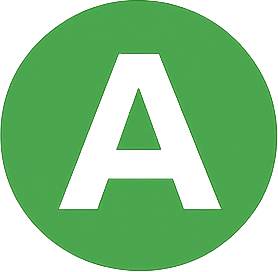
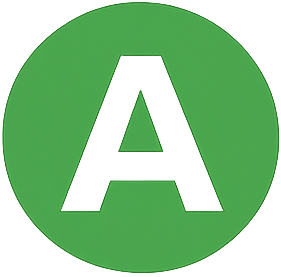
Bump version; use SoundPlayer; publish settings
Bump app version to 1.2.7.0 and add global publish settings (single-file, self-contained, win-x64, etc.). Replace WPF MediaPlayer usage with System.Media.SoundPlayer for embedded activate/deactivate WAV resources (remove temporary file extraction and MediaPlayer.Position usage). Hide virtual keyboard when switching back to controller mode. Update A/B/X/Y button asset images.

diff --git a/MainForm.cs b/MainForm.cs
@@ -3,6 +3,7 @@ using System.Windows.Forms;
 using System.Runtime.InteropServices;
 using System.Drawing;
 using System.Windows.Media;
+using System.Media;
 using DrawingColor = System.Drawing.Color;
 
 namespace HaloShift
@@ -14,8 +15,8 @@ namespace HaloShift
         private Timer _updateTimer;
         private NotifyIcon _notifyIcon;
         private ControlsWindow _controlsWindow;
-        private MediaPlayer _activateSound;
-        private MediaPlayer _deactivateSound;
+        private SoundPlayer _activateSound;
+        private SoundPlayer _deactivateSound;
         private SensitivityOverlay _sensitivityOverlay;
         private VirtualKeyboard _virtualKeyboard;
 
@@ -206,6 +207,9 @@ namespace HaloShift
                 // Play deactivation sound
                 PlayDeactivationSound();
 
+                // Hide the virtual keyboard when switching back to controller mode
+                _virtualKeyboard?.Hide();
+
                 // Completely hide the window
                 this.Visible = false;
                 this.WindowState = FormWindowState.Minimized;
@@ -230,32 +234,16 @@ namespace HaloShift
                 var activateStream = assembly.GetManifestResourceStream("HaloShift.sound_activate.wav");
                 if (activateStream != null)
                 {
-                    var tempActivate = System.IO.Path.Combine(System.IO.Path.GetTempPath(), "haloshift_activate.wav");
-                    using (var fileStream = System.IO.File.Create(tempActivate))
-                    {
-                        activateStream.CopyTo(fileStream);
-                    }
-                    activateStream.Dispose();
-
-                    _activateSound = new MediaPlayer();
-                    _activateSound.Open(new Uri(tempActivate));
-                    _activateSound.Volume = 0.7;
+                    _activateSound = new SoundPlayer(activateStream);
+                    _activateSound.Load();
                 }
 
                 // Load deactivation sound from embedded resource
                 var deactivateStream = assembly.GetManifestResourceStream("HaloShift.sound_deactivate.wav");
                 if (deactivateStream != null)
                 {
-                    var tempDeactivate = System.IO.Path.Combine(System.IO.Path.GetTempPath(), "haloshift_deactivate.wav");
-                    using (var fileStream = System.IO.File.Create(tempDeactivate))
-                    {
-                        deactivateStream.CopyTo(fileStream);
-                    }
-                    deactivateStream.Dispose();
-
-                    _deactivateSound = new MediaPlayer();
-                    _deactivateSound.Open(new Uri(tempDeactivate));
-                    _deactivateSound.Volume = 0.7;
+                    _deactivateSound = new SoundPlayer(deactivateStream);
+                    _deactivateSound.Load();
                 }
             }
             catch { }
@@ -267,7 +255,6 @@ namespace HaloShift
             {
                 if (_activateSound != null)
                 {
-                    _activateSound.Position = TimeSpan.Zero;
                     _activateSound.Play();
                 }
             }
@@ -280,7 +267,6 @@ namespace HaloShift
             {
                 if (_deactivateSound != null)
                 {
-                    _deactivateSound.Position = TimeSpan.Zero;
                     _deactivateSound.Play();
                 }
             }
